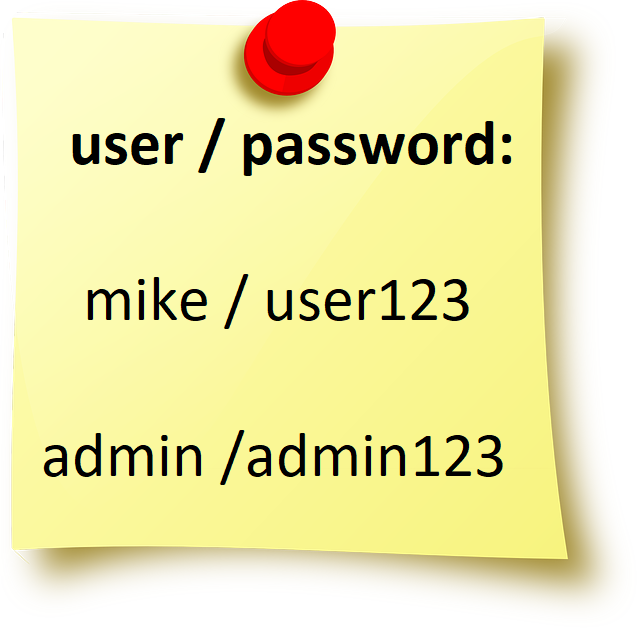
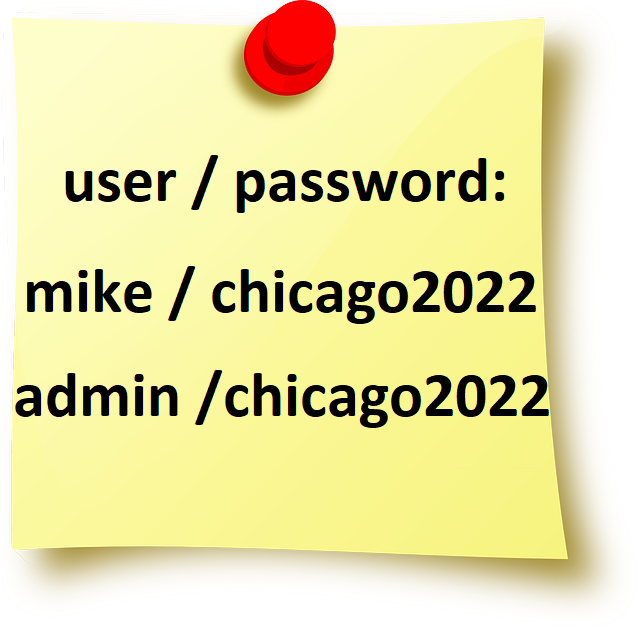
UI modifications for better experience.

diff --git a/src/main/resources/frontend/foodbox-app/src/app/about/about.component.html b/src/main/resources/frontend/foodbox-app/src/app/about/about.component.html
@@ -2,32 +2,26 @@
     <div class="cell card-header">
         About This Application
     </div>
-    <div class="cell card-body mt-3 mb-4">
-        <h2>Food Box is the Capstone Project for my Full Stack Java Bootcamp.</h2>
-        <div class="mx-4" style="width: 70%;">
-            <h3 class="mt-5">The Bootcamp</h3>
-            <p>This web application is the culmination of many months of learning in the evenings and on weekends. The Bootcamp started in December
-                2021 and I am delivering this final project in the middle of October 2022, so it took almost 11 months to complete.
-                <b><span style="display:inline-block">NO START CODE WAS PROVIDED</span></b>, so it was very hard to develop, but very rewarding!</p>
+    <div class="cell card-body mb-1 ">
+        <div class="ml-2 mx-2" style="width: 70%;">
+            <h3 class="mt-3">The Bootcamp</h3>
+            <p>Food Box is the Capstone Project for my Full Stack Java Bootcamp. It is the culmination of many months of learning in the evenings and
+                on weekends. The Bootcamp started in December
+                2021 and I am delivering this final project at the end of October 2022, so it took almost 11 months to complete.
+                <b><span style="display:inline-block">NO START-CODE WAS PROVIDED</span></b>, so it was very hard to develop, but very rewarding!</p>
 
             <h3 class="mt-5">Future Improvements</h3>
             <p>Currently, the application stores data in MySQL database, but the goal is to migrate to MongoDB, a NO_SQL
                 document-based database. Also, it would be a good challenge to migrate it from Amazon AWS to Microsoft Azure.
                 Finally, a phone-friendly application is a must. It should not take much effort to modify the CSS files and make
                 a mobile version.</p>
-            <h5>Our future goals are:</h5>
-            <ul>
-                <li>Switch to MongoDB</li>
-                <li>Create a mobile version</li>
-                <li>Migrate to Azure Cloud</li>
-            </ul>
 
             <h3 class="mt-5">The Application</h3>
             <p>Angular is used for the frontend and Springboot + MySql for the backend. It runs in the Amazon AWS cloud, specifically the
                 backend runs in the Amazon Beanstalk and the frontend in S3 static storage.</p>
         </div>
         <div>
-            <img class="img-responsive" src="assets/images/technologies.png" alt="technologies" />
+            <img class="img-responsive" src="assets/images/technologies.png" alt="technologies" width="80%"/>
         </div>
     </div>
 

diff --git a/src/main/resources/frontend/foodbox-app/src/app/login/login.service.ts b/src/main/resources/frontend/foodbox-app/src/app/login/login.service.ts
@@ -8,7 +8,8 @@ import {IUser} from "../model/user";
     providedIn: 'root'
 })
 export class LoginService {
-    userUrl: string = 'http://localhost:8080/login';
+    baseUrl: string = "http://foodboxapp-env.eba-5ye8smp8.us-west-2.elasticbeanstalk.com"
+    userUrl: string = this.baseUrl + '/login';
     putUrl: string = 'https://62e8570a249bb1284ead379a.mockapi.io/api/v1/users/';
     private isAdmin: boolean = false;
     private isLoggedIn: boolean = false;
@@ -76,9 +77,7 @@ export class LoginService {
         };
 
         return this.http.post<IUser>(this.userUrl, formValue, httpOptions).pipe(
-            tap(data => {
-                console.log("data: " + JSON.stringify(data));
-            }),
+            tap(data => {(data)}),
             catchError(err => this.handleError(err))
         )
     }
@@ -98,6 +97,7 @@ export class LoginService {
             errorMessage = `Server returned code: ${error.status}, error message is: ${error.message}`;
         }
         console.error(errorMessage);
+        alert(`Login Error. \n\nVerify your username and password are correct.\nAlso verify you use the link provided for the application:\nhttp://foodbox.s3.us-west-2.amazonaws.com/index.html (http, not https)`);
         return throwError(errorMessage);
     }
 

diff --git a/src/main/resources/frontend/foodbox-app/src/app/search/search.service.ts b/src/main/resources/frontend/foodbox-app/src/app/search/search.service.ts
@@ -12,9 +12,10 @@ import {NotificationService} from "../notification/notification.service";
     providedIn: 'root'
 })
 export class SearchService {
-    // foodUrl: string = 'api/foods.json';
-    foodUrl: string = 'http://localhost:8080/food/getAllFoods';
-    postPurchaseUrl: string = 'https://62e8570a249bb1284ead379a.mockapi.io/api/v1/purchase';
+
+    baseUrl: string = "http://foodboxapp-env.eba-5ye8smp8.us-west-2.elasticbeanstalk.com"
+    foodUrl: string = this.baseUrl + '/food/getAllFoods';
+    postPurchaseUrl: string = '';
     cart: IFood[] = [];
     orden!: IOrden;
     absoluteTotal: number = 0;
@@ -24,14 +25,14 @@ export class SearchService {
 
     getFoods(): Observable<IFood[]> {
         return this.http.get<IFood[]>(this.foodUrl).pipe(
-            tap(data => console.log("data: " + JSON.stringify(data))),
+            tap(data => data),
             catchError(this.handleError)
         );
     }
 
     postPurchase(orden: any): Observable<any> {
         return this.http.post<any>(this.postPurchaseUrl, orden).pipe(
-            tap(data => console.log(JSON.stringify(data))),
+            tap(data => data),
             catchError(this.handleError)
         );
     }

diff --git a/src/main/resources/frontend/foodbox-app/src/app/app.component.ts b/src/main/resources/frontend/foodbox-app/src/app/app.component.ts
@@ -19,7 +19,7 @@ export class AppComponent implements OnInit {
 
     loginForm = this.formBuilder.group({
         username: ['mike', Validators.required],
-        password: ['user123', Validators.required]
+        password: ['chicago2022', Validators.required]
     })
 
     constructor(private loginService: LoginService,
@@ -31,7 +31,6 @@ export class AppComponent implements OnInit {
 
         this.loginService.submitLogin(this.loginForm.value).subscribe({
             next: (data) => {
-            //     data = JSON.parse(JSON.stringify(data));
                 data.profile !== "F"?this.isLoggedIn = true:this.isLoggedIn = false;
                 data.profile === "A"?this.isAdmin = true:this.isAdmin = false;
 
@@ -42,10 +41,8 @@ export class AppComponent implements OnInit {
                 this.getLoginService().contact = data.contact;
                 this.getLoginService().credit = data.credit;
 
-                console.log("data", data);
-
             },
-            error: (err => console.log("ERROR: > " + err))
+            error: (err => console.error("ERROR: > " + err))
         });
     }
 

diff --git a/src/main/resources/frontend/foodbox-app/src/app/search/edit.service.ts b/src/main/resources/frontend/foodbox-app/src/app/search/edit.service.ts
@@ -8,8 +8,9 @@ import {catchError, tap} from "rxjs/operators";
     providedIn: 'root'
 })
 export class EditService {
-    getFoodItemUrl: string = 'http://localhost:8080/food/getFoodItem/';
-    updateFoodItemUrl: string = 'http://localhost:8080/food/updateFoodItem/';
+    baseUrl: string = "http://foodboxapp-env.eba-5ye8smp8.us-west-2.elasticbeanstalk.com"
+    getFoodItemUrl: string = this.baseUrl + '/food/getFoodItem/';
+    updateFoodItemUrl: string = this.baseUrl + '/food/updateFoodItem/';
 
     httpOptions = {
         headers: new HttpHeaders({
@@ -21,7 +22,6 @@ export class EditService {
     }
 
     getFoodItem(id: string | null): Observable<IFood> {
-        console.log("getFood: " + id);
         return this.http.get<IFood>(this.getFoodItemUrl + id);
     }
 
@@ -29,7 +29,7 @@ export class EditService {
 
 
         return this.http.post<IFood>(this.updateFoodItemUrl, food, this.httpOptions).pipe(
-            tap(data => console.log(JSON.stringify(data))),
+            tap(data => data),
             catchError(this.handleError)
         )
     }

diff --git a/src/main/resources/frontend/foodbox-app/src/app/search/delete.service.ts b/src/main/resources/frontend/foodbox-app/src/app/search/delete.service.ts
@@ -8,8 +8,9 @@ import {catchError, tap} from "rxjs/operators";
   providedIn: 'root'
 })
 export class DeleteService {
-  getFoodItemUrl: string = 'http://localhost:8080/food/getFoodItem/';
-  deleteFoodItemUrl: string = 'http://localhost:8080/food/deleteFoodItem/';
+  baseUrl: string = "http://foodboxapp-env.eba-5ye8smp8.us-west-2.elasticbeanstalk.com"
+  getFoodItemUrl: string = this.baseUrl + '/food/getFoodItem/';
+  deleteFoodItemUrl: string = this.baseUrl + '/food/deleteFoodItem/';
 
   httpOptions = {
     headers: new HttpHeaders({
@@ -22,7 +23,6 @@ export class DeleteService {
   }
 
   getFoodItem(foodId: string | null): Observable<IFood> {
-    console.log("getFood: " + foodId);
     return this.http.get<IFood>(this.getFoodItemUrl + foodId);
   }
 
@@ -30,7 +30,7 @@ export class DeleteService {
 
 
     return this.http.delete<IFood>(this.deleteFoodItemUrl + foodId, this.httpOptions).pipe(
-        tap(data => console.log(JSON.stringify(data))),
+        tap(data => data),
         catchError(this.handleError)
     )
   }

diff --git a/src/main/resources/frontend/foodbox-app/src/app/search/search.component.ts b/src/main/resources/frontend/foodbox-app/src/app/search/search.component.ts
@@ -32,6 +32,7 @@ export class SearchComponent implements OnInit, OnDestroy {
     }
 
     ngOnInit(): void {
+
         this.sub = this.searchService.getFoods().subscribe({
             next: data => {
                 this.foods = data;
@@ -82,7 +83,6 @@ export class SearchComponent implements OnInit, OnDestroy {
     }
 
     set descriptionFilter(value: string) {
-        console.log("this._priceFilter = " + this._priceFilter)
         this._descriptionFilter = value;
         this.foodsFiltered = this.foodsOriginal.filter(
             food => food.description.toLowerCase().includes(value.toLowerCase())
@@ -99,7 +99,6 @@ export class SearchComponent implements OnInit, OnDestroy {
 
     set priceFilter(value: number) {
 
-        console.log("value: " + value)
         this._priceFilter = value;
         this.foodsFiltered = this.foodsOriginal.filter(
             food => (value === null ? food.price > 0 : food.price <= value)

diff --git a/src/main/resources/frontend/foodbox-app/src/app/inventory/inventory.service.ts b/src/main/resources/frontend/foodbox-app/src/app/inventory/inventory.service.ts
@@ -18,21 +18,21 @@ export class InventoryService {
 
     saveNewItem(inventoryGroup: any): Observable<any> {
         return this.http.post(this.urlSave, inventoryGroup).pipe(
-            tap(data => console.log(JSON.stringify(data))),
+            tap(data => (data)),
             catchError(this.handleError)
         );
     }
 
     deleteItem(foodId: number): Observable<any> {
         return this.http.delete(this.urlDelete + "/" + foodId).pipe(
-            tap(data => console.log("DELETE: " + JSON.stringify(data))),
+            tap(data => (data)),
             catchError(this.handleError)
         );
     }
 
     getFoods(): Observable<IFood[]> {
         return this.http.get<IFood[]>(this.urlGet).pipe(
-            tap(data => console.log(JSON.stringify(data))),
+            tap(data => data),
             catchError(this.handleError)
         )
     }

diff --git a/src/main/resources/frontend/foodbox-app/src/app/orden/orden.service.ts b/src/main/resources/frontend/foodbox-app/src/app/orden/orden.service.ts
@@ -17,7 +17,8 @@ export class OrdenService {
     })
   };
 
-  ordenUrl: string = 'http://localhost:8080/cart/getDisplayOrden/';
+  baseUrl: string = "http://foodboxapp-env.eba-5ye8smp8.us-west-2.elasticbeanstalk.com"
+  ordenUrl: string = this.baseUrl + '/cart/getDisplayOrden/';
   constructor(private http: HttpClient) {
 
   }
@@ -25,7 +26,7 @@ export class OrdenService {
 
   getDisplayOrden(ordenNum: number): Observable<IDisplayOrden[]> {
     return this.http.get<IDisplayOrden[]>(this.ordenUrl + ordenNum, this.httpOptions).pipe(
-        tap(data => console.log("data: " + JSON.stringify(data))),
+        tap(data => data),
         catchError(this.handleError)
 
     );

diff --git a/src/main/resources/frontend/foodbox-app/src/app/search/new.service.ts b/src/main/resources/frontend/foodbox-app/src/app/search/new.service.ts
@@ -8,7 +8,8 @@ import {catchError, tap} from "rxjs/operators";
   providedIn: 'root'
 })
 export class NewService {
-  addFoodItemUrl: string = 'http://localhost:8080/food/addFoodItem/';
+  baseUrl: string = "http://foodboxapp-env.eba-5ye8smp8.us-west-2.elasticbeanstalk.com"
+  addFoodItemUrl: string = this.baseUrl + '/food/addFoodItem/';
 
   httpOptions = {
     headers: new HttpHeaders({
@@ -25,7 +26,7 @@ export class NewService {
 
 
     return this.http.post<IFood>(this.addFoodItemUrl, food, this.httpOptions).pipe(
-        tap(data => console.log(JSON.stringify(data))),
+        tap(data => data),
         catchError(this.handleError)
     )
   }

diff --git a/src/main/resources/frontend/foodbox-app/src/app/purchase/purchase.service.ts b/src/main/resources/frontend/foodbox-app/src/app/purchase/purchase.service.ts
@@ -10,8 +10,9 @@ import {IOrden} from "../model/orden";
 })
 export class PurchaseService {
   // foodUrl: string = 'api/foods.json';
-  foodUrl: string = 'http://localhost:8080/food/getAllFoods';
-  postPurchaseUrl: string = 'http://localhost:8080/cart/postPurchase';
+  baseUrl: string = "http://foodboxapp-env.eba-5ye8smp8.us-west-2.elasticbeanstalk.com"
+  foodUrl: string = this.baseUrl + '/food/getAllFoods';
+  postPurchaseUrl: string = this.baseUrl + '/cart/postPurchase';
   cart: IFood[] = [];
   absoluteTotal: number = 0;
 

diff --git a/src/main/resources/frontend/foodbox-app/src/app/orden/orden.component.ts b/src/main/resources/frontend/foodbox-app/src/app/orden/orden.component.ts
@@ -24,7 +24,6 @@ export class OrdenComponent implements OnInit {
 
         this.sub = this.ordenService.getDisplayOrden(ordenNum).subscribe({
             next: data => {
-                console.log("ngOnInit: data: " + JSON.stringify(data));
                 this.displayOrdens = data
 
 
@@ -55,7 +54,7 @@ export class OrdenComponent implements OnInit {
 
                 return this.displayOrdens;
             },
-            error: err => console.log(err)
+            error: err => alert(err)
         });
     }
 
